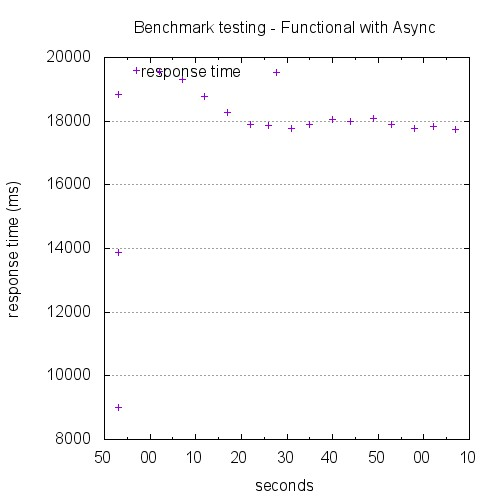
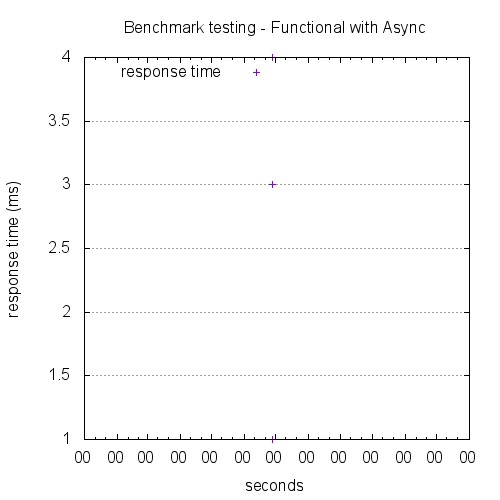
updated samples before publishing blog article

diff --git a/server.js b/server.js
@@ -20,10 +20,8 @@ app.get('/', function staticcontent(req, res) {
 
 app.get('/tightloop', function tightloop(req, res) {
     var i = 0;
-    for (var i = 0; i < 10000000000; i++) {
+    for (var i = 0; i < 10000000; i++) {
       j = i - 1.5 * i;
-      if (j % 20000000) console.log('.');
-      setTimeout(() => { }, 0);
     }
     res.status(200).send( "I am all done now.");
 });
@@ -70,15 +68,34 @@ app.get('/functionalramda', function functionalramda(req, res) {
     res.status(200).send( result);
   });
 
-// TODO - overkill?
-app.get('/functionalasync', function functionalasync(req, res) {
-  async.reduce(names, {'ATOM': 0, 'NTOZ': 0}, function functionalasync(memo, name, callback) {
+// here's what you get when you run without setTimeout - an endless loop.
+// you need to call a callback (see the next one)
+app.get('/functionalasync-noyield', function functionalasync(req, res) {
+  async.reduce(names, {'ATOM': 0, 'NTOZ': 0}, function doItSync(memo, name) {
    var ucname = name.toUpperCase();
    if (ucname[0] >= 'A' && ucname[0] <= 'M') {
      memo['ATOM'] = memo['ATOM'] + 1;
    } else if(ucname[0] >= 'N' && ucname[0] <= 'Z') {
      memo['NTOZ'] = memo['NTOZ'] + 1;
    }
+   return memo;
+  },
+  function(err, result) {
+    res.status(200).send( result);  
+  });
+  
+});
+
+app.get('/functionalasync-yield', function functionalasync(req, res) {
+  async.reduce(names, {'ATOM': 0, 'NTOZ': 0}, function doItAsync(memo, name, callback) {
+   var ucname = name.toUpperCase();
+   if (ucname[0] >= 'A' && ucname[0] <= 'M') {
+     memo['ATOM'] = memo['ATOM'] + 1;
+   } else if(ucname[0] >= 'N' && ucname[0] <= 'Z') {
+     memo['NTOZ'] = memo['NTOZ'] + 1;
+   }
+   // important - forgetting to call callback on the next tick
+   // will cause a stack blow-out.
    process.nextTick(function asyncAnswerOnTick() {
       callback(null, memo);
    });
@@ -86,8 +103,8 @@ app.get('/functionalasync', function functionalasync(req, res) {
   function(err, result) {
     res.status(200).send( result);  
   });
-  
 });
+
 app.get('/rawdata', function rawdata(req, res) {
     res.status(200).send( names);
 });

diff --git a/README.md b/README.md
@@ -3,50 +3,7 @@
 This is why we can't have nice things.  You shouldn't do the following things directly in Node without understanding why:
 
 * Template processing
-* Collections processing
+* Heavy-duty collections processing
 * High-cpu work
 
-All of these things will block the event loop.
-
-Try this against the repo once you do an `npm install` and a `node server.js`:
-
-ab -n 100 -i 6 http://localhost:3000/functionalnative
-
-* Runs 100 iterations, 6 at a time
-* Reports benchmark results after running
-
-You should see a big red flag here:
-
-```text
-Concurrency level: 1
-```
-
-So a node engine will only allow one thing at a time to consume its CPU. If you're coming fom a thread or worker background, consider each node instance a worker.
-
-## To fix this situation you need a load balancer
-
-Node is a butler, not a worker.  You can install `pm2` (with `npm install -g pm2` and then fire up as many server instances as you have CPU nodes:
-
-```bash
-pm2 start server.js -i -1
-```
-
-Then you can monitor it with `pm2 monit` and fire up your requests, which will be spread across nodes.
-
-## Benchmark URLs
-
-First, our Name API test - maps over 100000 randomly generated names with `faker` - reports the count from A-M and N-Z.
-
-* `/functionalnative` - use the native built-in V8 Array.prototype.reduce
-* `/functionalramda` - use the RamdaJS library
-* `/functionalasync` - use the Async library and `process.nextTick`
-
-CPU test next - peg the CPU
-
-* `/tightloop` just burn up the CPU with a tight loop
-
-Memory test w/core dump - overload Node
-
-* `/growit` - keep pushing elements onto an array until it blows up
-
-
+See the blog post [url here] for details.
